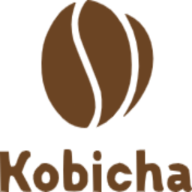
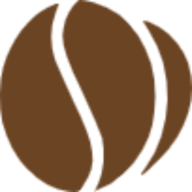
Changed meta images

diff --git a/src/pages/_document.tsx b/src/pages/_document.tsx
@@ -26,7 +26,7 @@ class MyDocument extends Document {
           />
           <meta
             name="image"
-            content="https://kobicha.rufat.tech/img/logo-footer.png"
+            content="https://kobicha.rufat.tech/img/logo-full.png"
           />
 
           {/* <!-- Facebook Meta Tags --> */}
@@ -39,7 +39,7 @@ class MyDocument extends Document {
           />
           <meta
             property="og:image"
-            content="https://kobicha.rufat.tech/img/logo-footer.png"
+            content="https://kobicha.rufat.tech/img/logo-full.png"
           />
 
           {/* <!-- Twitter Meta Tags --> */}
@@ -51,7 +51,7 @@ class MyDocument extends Document {
           />
           <meta
             name="twitter:image"
-            content="https://kobicha.rufat.tech/img/logo-footer.png"
+            content="https://kobicha.rufat.tech/img/logo-full.png"
           />
           {/* <!-- <link rel="apple-touch-icon" href="%PUBLIC_URL%/logo192.png" /> --> */}
           {/* <!--
